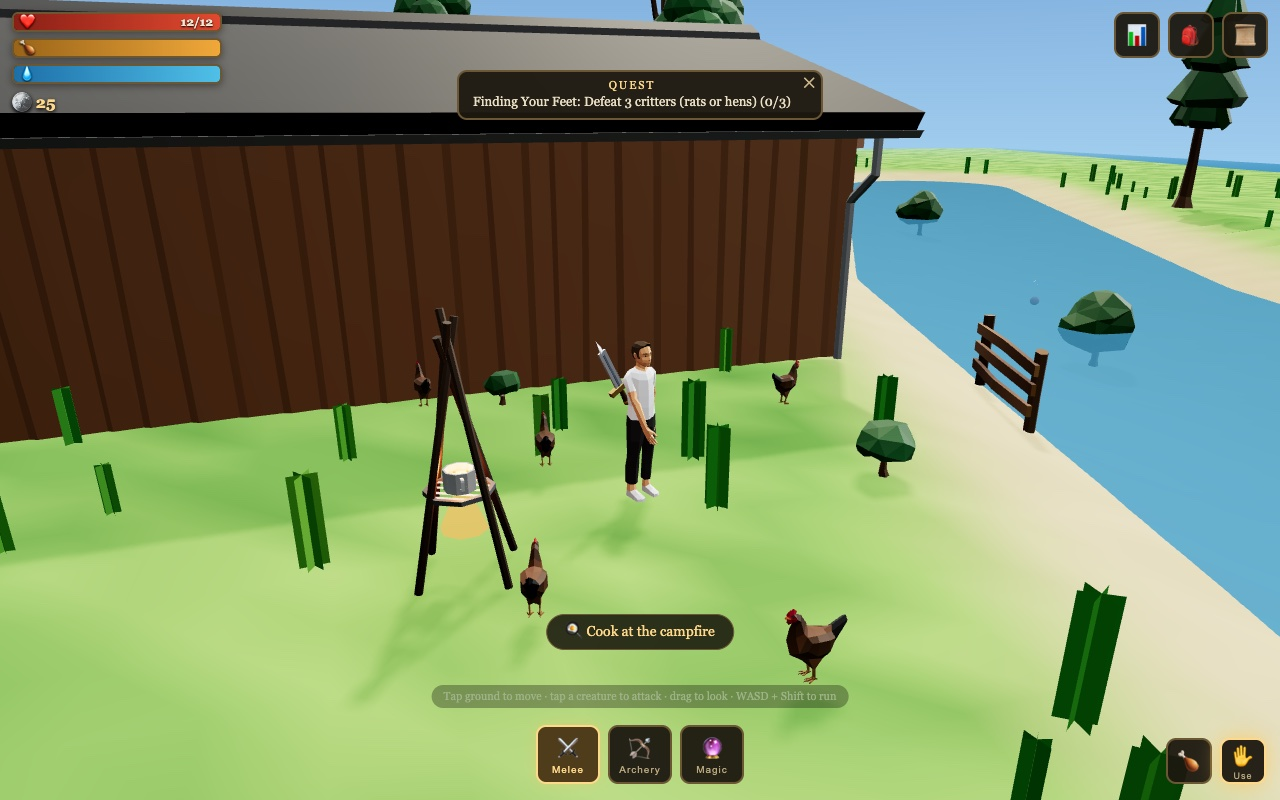
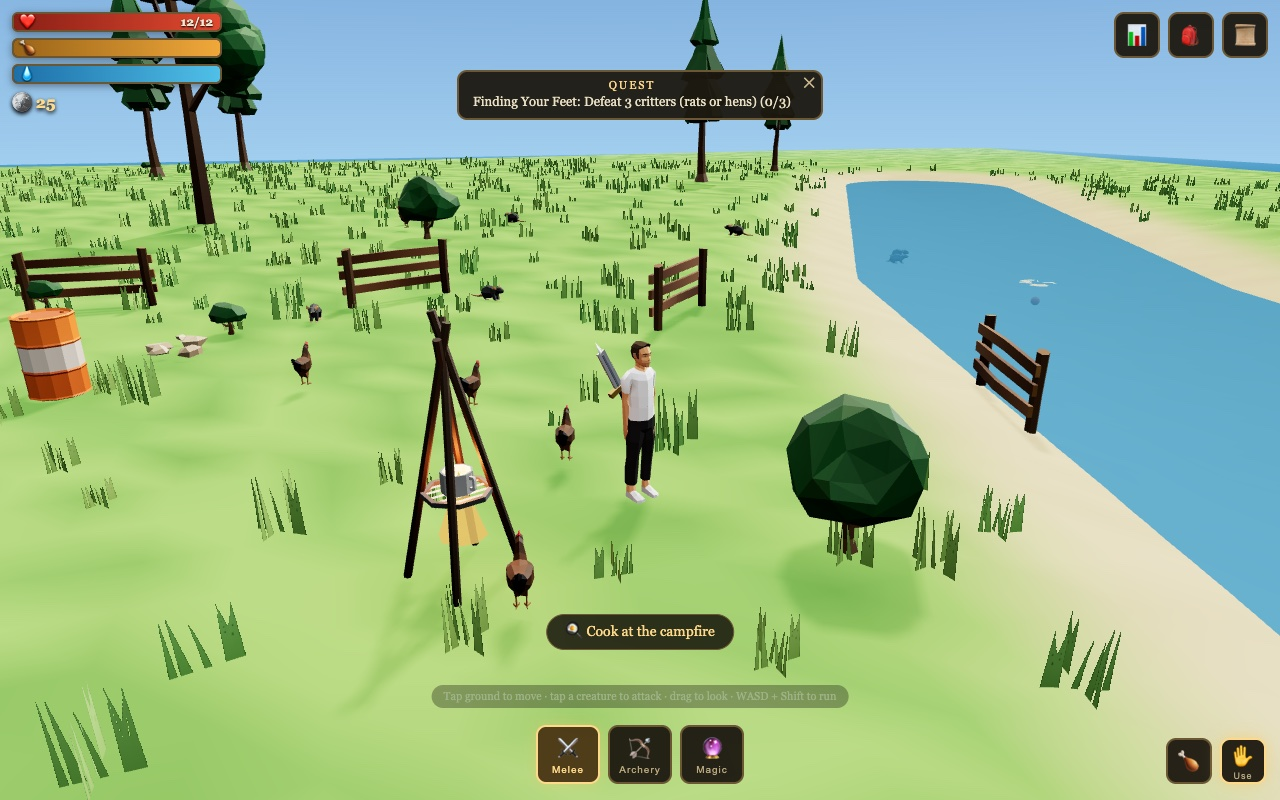
whoami: nicer grass, no walkable water, solid barn collision
- Grass now uses the Glade's alpha-cut blade texture (was reading as cactus
  spikes); soft wispy tufts.
- Terrain is clamped above the waterline everywhere except the river channel,
  so there are no stray walkable puddles/lakes — the river is the only water
  (already blocked + fishable from the bank).
- The forester barn (21×14m) was relocated clear of the well and given a box
  collider matching its footprint, so you can no longer walk through its walls.

diff --git a/gms/3d/whoami/js/world.js b/gms/3d/whoami/js/world.js
@@ -10,7 +10,7 @@
 import * as THREE from 'three';
 import { RoomEnvironment } from 'three/addons/environments/RoomEnvironment.js';
 import { CFG, RIVER, LITE } from './config.js';
-import { M } from './utils.js';
+import { M, canvasTexture, rand } from './utils.js';
 
 export const WATER_LEVEL = -0.55;
 const RIVER_HALF = 5.2;          // half-width of the carved channel
@@ -49,6 +49,7 @@ export function groundHeight(x, z) {
   // gentle rolling hills, flattened around the central village
   let h = (Math.sin(x * 0.055) * Math.cos(z * 0.048) + Math.sin(x * 0.021 + z * 0.03) * 0.6) * 0.45;
   h *= smooth(12, 40, r);
+  h = Math.max(h, -0.3);   // keep dry land above the waterline — the river is the ONLY water
   // carve the riverbed
   const d = riverDist(x, z);
   if (d < RIVER_HALF + BANK) {
@@ -153,11 +154,27 @@ export function buildWorld(scene, renderer) {
   if (!LITE) grass = buildGrass();
 
   function buildGrass() {
-    // a little 3-plane star so each tuft reads as a grass clump, not a cube
-    const blade = new THREE.PlaneGeometry(0.2, 0.7); blade.translate(0, 0.34, 0);
-    const merged = mergeGeo([blade, blade.clone().rotateY(Math.PI / 3), blade.clone().rotateY(2 * Math.PI / 3)]);
-    const N = 1800;
-    const m = new THREE.MeshStandardMaterial({ color: 0x6aa83e, side: THREE.DoubleSide, roughness: 1 });
+    // soft alpha-cut blades (ported from the Glade) — reads as wispy grass, not
+    // solid green spikes. A canvas of curved blades on crossed quads.
+    const blade = canvasTexture(128, (g, s) => {
+      g.clearRect(0, 0, s, s);
+      for (let i = 0; i < 7; i++) {
+        const xb = rand(18, 110), w = rand(4, 8), lean = rand(-18, 18), top = rand(6, 38);
+        const grad = g.createLinearGradient(0, s, 0, top);
+        grad.addColorStop(0, '#cfe0b0'); grad.addColorStop(1, '#f4ffe2');
+        g.fillStyle = grad;
+        g.beginPath();
+        g.moveTo(xb - w, s);
+        g.quadraticCurveTo(xb - w * 0.4 + lean * 0.5, s * 0.5, xb + lean, top);
+        g.quadraticCurveTo(xb + w * 0.4 + lean * 0.5, s * 0.5, xb + w, s);
+        g.closePath(); g.fill();
+      }
+    });
+    blade.wrapS = blade.wrapT = THREE.ClampToEdgeWrapping;
+    const p1 = new THREE.PlaneGeometry(0.55, 0.5).translate(0, 0.25, 0);
+    const merged = mergeGeo([p1, p1.clone().rotateY(Math.PI / 2)]);
+    const m = new THREE.MeshStandardMaterial({ map: blade, alphaTest: 0.45, side: THREE.DoubleSide, roughness: 1 });
+    const N = LITE ? 1200 : 2600;
     const inst = new THREE.InstancedMesh(merged, m, N);
     const dummy = new THREE.Object3D();
     const cc = new THREE.Color();
@@ -168,12 +185,13 @@ export function buildWorld(scene, renderer) {
       if (riverDist(x, z) < RIVER_HALF + 1) continue;
       const h = groundHeight(x, z);
       if (h < WATER_LEVEL) continue;
-      dummy.position.set(x, h, z);
+      const s = 0.7 + Math.random() * 0.8;
+      dummy.position.set(x, h - 0.02, z);
       dummy.rotation.y = Math.random() * Math.PI;
-      dummy.scale.setScalar(0.7 + Math.random() * 0.9);
+      dummy.scale.set(s, s * (0.85 + Math.random() * 0.4), s);
       dummy.updateMatrix();
       inst.setMatrixAt(n, dummy.matrix);
-      cc.setHSL(0.25 + Math.random() * 0.06, 0.5, 0.36 + Math.random() * 0.12);
+      cc.setHSL(0.26 + rand(-0.02, 0.035), 0.52, rand(0.34, 0.48));
       inst.setColorAt(n, cc);
       n++;
     }

diff --git a/gms/3d/whoami/js/main.js b/gms/3d/whoami/js/main.js
@@ -108,8 +108,9 @@ function start() {
     for (const s of dungeon.spawns) { const c = makeCreature(s.type, s.x, s.z, scene, world, bus); c.group.userData.creature = c; dungCreatures.push(c); }
   }
 
-  // static collision circles for overworld props (props are placed synchronously)
-  const worldCircles = liveColliders().map(e => ({ x: e.object.position.x, z: e.object.position.z, r: e.collider.r }));
+  // static collision shapes for overworld props (props are placed synchronously)
+  const worldCircles = liveColliders().filter(e => e.collider.r).map(e => ({ x: e.object.position.x, z: e.object.position.z, r: e.collider.r }));
+  const worldBoxes = liveColliders().filter(e => e.collider.box).map(e => ({ x: e.object.position.x, z: e.object.position.z, ...e.collider.box }));
 
   // ── area state ──
   let area = 'over';
@@ -345,6 +346,14 @@ function start() {
       const minD = cc.r + CFG.playerRadius;
       const dx = px.x - cc.x, dz = px.z - cc.z, d = Math.hypot(dx, dz);
       if (d < minD && d > 1e-5) { px.x = cc.x + (dx / d) * minD; px.z = cc.z + (dz / d) * minD; }
+    }
+    if (area !== 'dungeon') for (const b of worldBoxes) {        // axis-aligned box pushout
+      const pr = CFG.playerRadius;
+      const minX = b.x - b.hx - pr, maxX = b.x + b.hx + pr, minZ = b.z - b.hz - pr, maxZ = b.z + b.hz + pr;
+      if (px.x <= minX || px.x >= maxX || px.z <= minZ || px.z >= maxZ) continue;
+      const dl = px.x - minX, dr = maxX - px.x, dd = px.z - minZ, du = maxZ - px.z;
+      const m = Math.min(dl, dr, dd, du);
+      if (m === dl) px.x = minX; else if (m === dr) px.x = maxX; else if (m === dd) px.z = minZ; else px.z = maxZ;
     }
   }
 

diff --git a/gms/3d/whoami/js/worldobj.js b/gms/3d/whoami/js/worldobj.js
@@ -27,13 +27,14 @@ export function buildWorldObjects(scene, world) {
     return it;
   }
 
-  function place(name, x, z, { scale = 1, rotY = null, collide = 0, reg = null, y = 0 } = {}) {
+  function place(name, x, z, { scale = 1, rotY = null, collide = 0, box = null, reg = null, y = 0 } = {}) {
     const holder = new THREE.Group();
     holder.position.set(x, ground(x, z) + y, z);
     holder.rotation.y = rotY == null ? rand(0, 6.28) : rotY;
     scene.add(holder);
     loadModel(name).then(m => { m.scale.setScalar(scale); holder.add(m); });
-    if (collide) register({ name: reg || name, category: 'Props', icon: '🌳', object: holder, collider: { r: collide }, note: name });
+    if (box) register({ name: reg || name, category: 'Props', icon: '🏠', object: holder, collider: { box }, note: name });
+    else if (collide) register({ name: reg || name, category: 'Props', icon: '🌳', object: holder, collider: { r: collide }, note: name });
     return holder;
   }
 
@@ -51,7 +52,12 @@ export function buildWorldObjects(scene, world) {
 
   place('anvil', SITES.anvil.x, SITES.anvil.z, { scale: 1.0, collide: 0.7, reg: 'Anvil' });
   place('tent', SITES.spawn.x - 6, SITES.spawn.z + 3, { scale: 1.0, collide: 1.4, reg: 'Tent' });
-  place('house', 12, 4, { scale: 1.0, rotY: -Math.PI * 0.5, collide: 3.0, reg: 'Forester House' });
+  // big forester barn (21 × 13.87 model). Placed clear of the village POIs, with
+  // a box collider matching its footprint so you can't walk through the walls.
+  // rotated -90° → world footprint swaps to (13.87 × 21) × scale.
+  const HS = 0.8;
+  place('house', 18, -13, { scale: HS, rotY: -Math.PI / 2, reg: 'Forester Barn',
+    box: { hx: 13.87 * HS / 2 + 0.2, hz: 21 * HS / 2 + 0.2 } });
   for (const [lx, lz] of [[-2, -2], [4, -1], [-8, 2]]) place('lantern', lx, lz, { scale: 1.0, collide: 0.3 });
   for (const [bx, bz, n] of [[-9, -6, 'barrel'], [-9.8, -5, 'crate'], [10, 2, 'barrel']]) place(n, bx, bz, { scale: 1, collide: 0.5 });
 